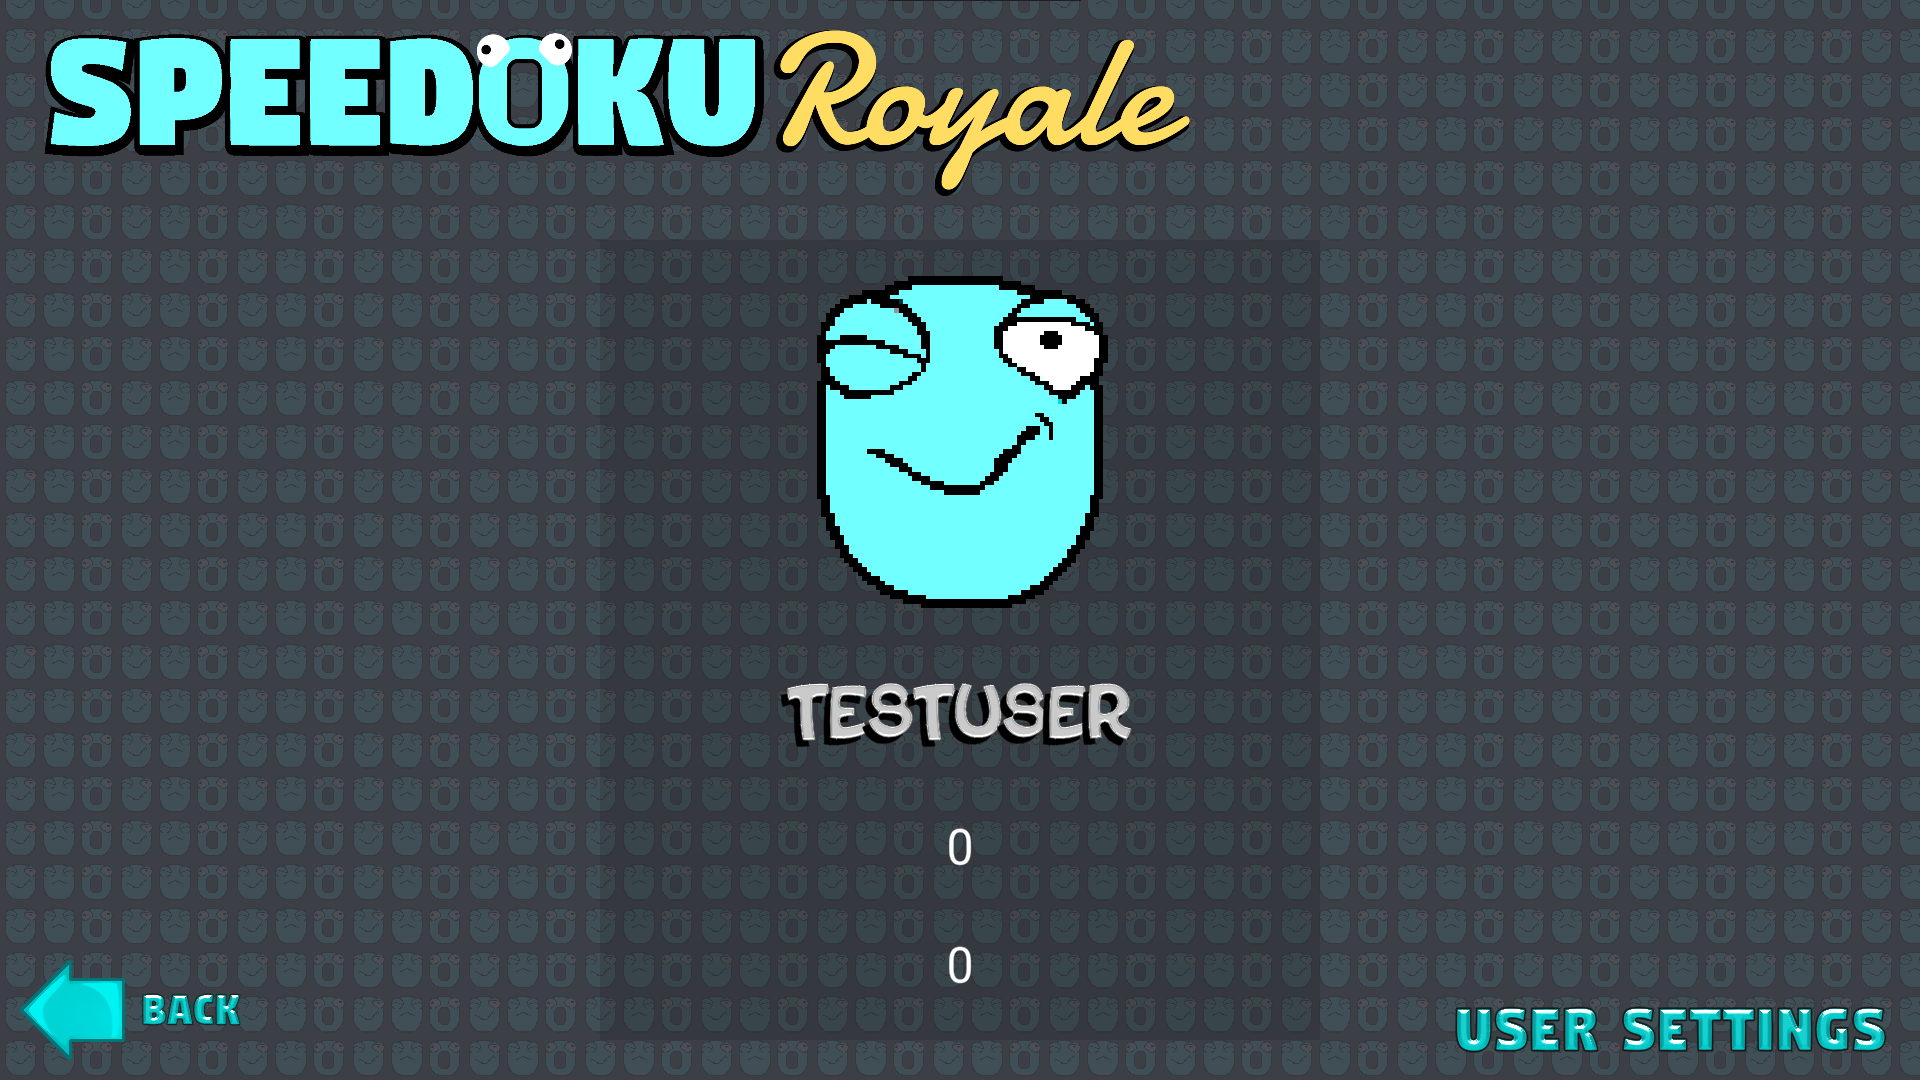
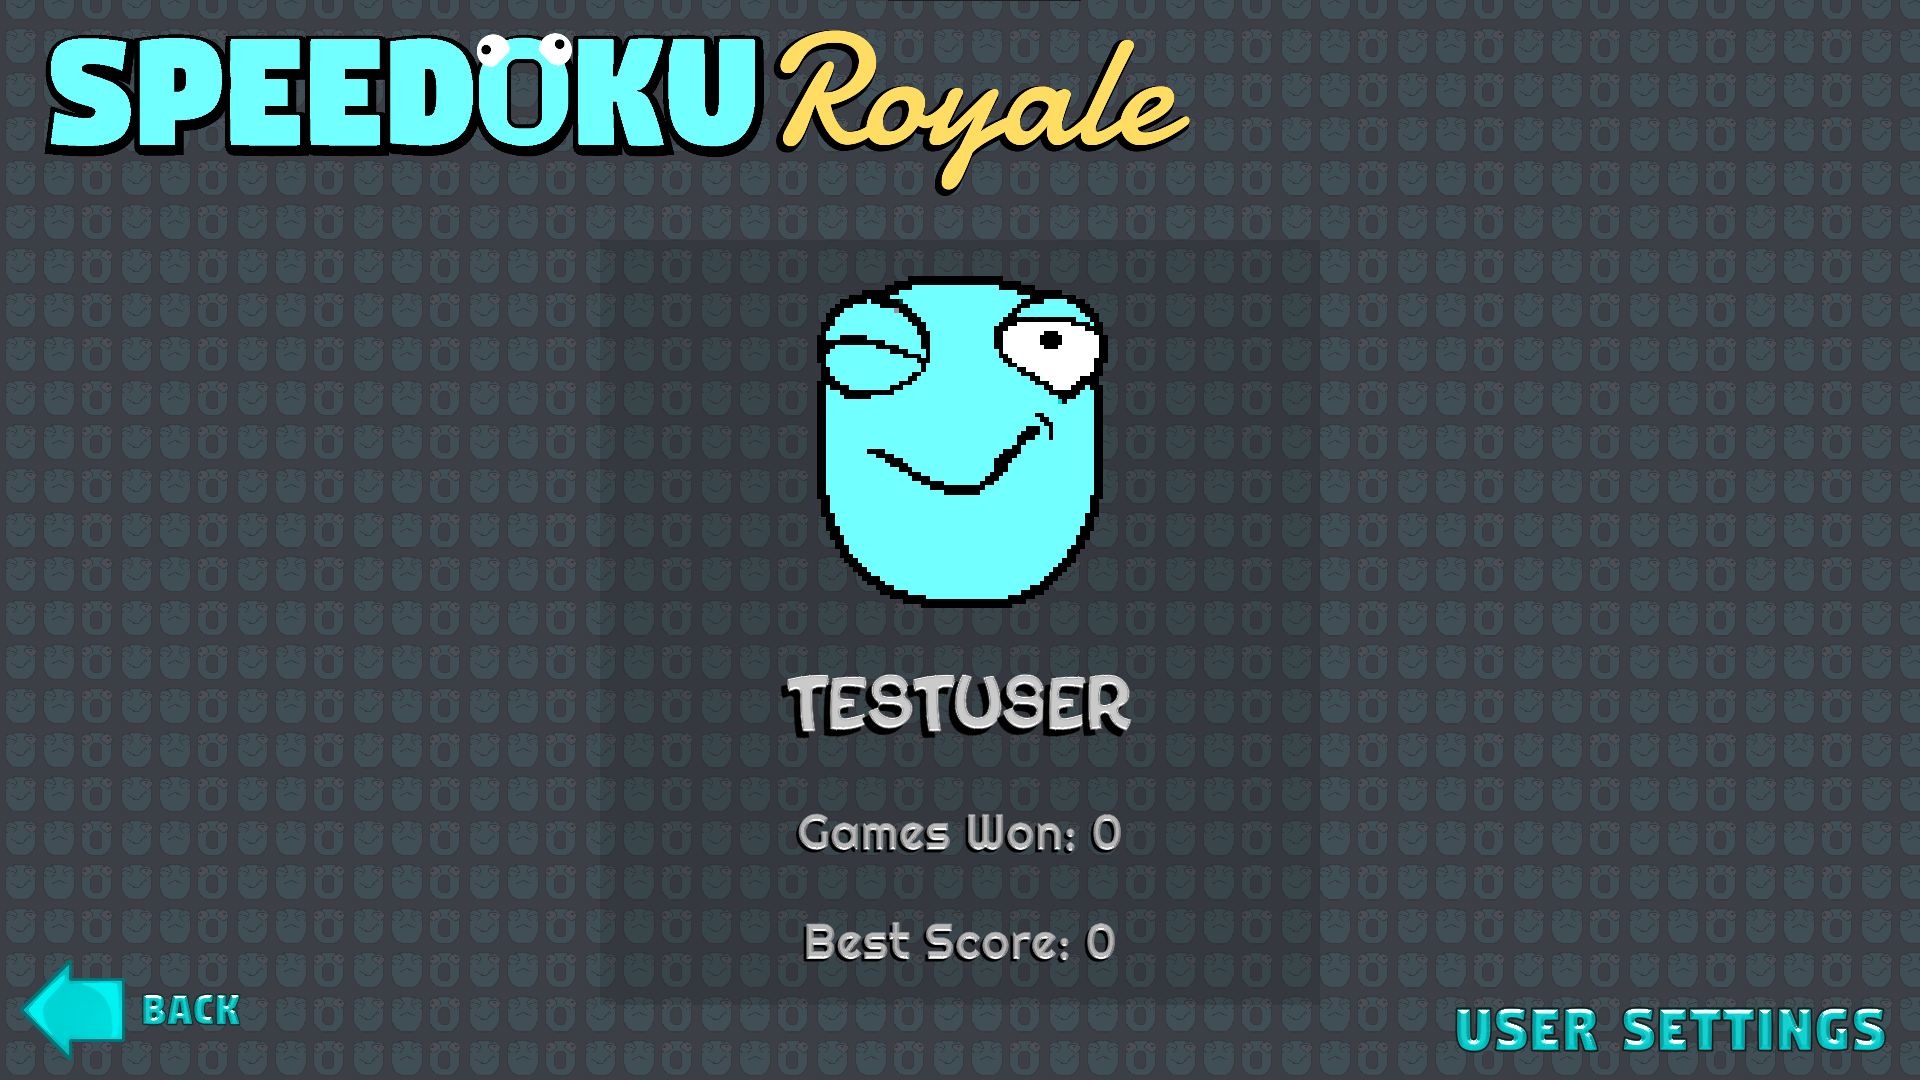
Update readme

Changed region(s): [[0.4062, 0.6111, 0.5938, 0.7028], [0.4062, 0.7333, 0.5938, 0.7944], [0.4062, 0.8556, 0.5938, 0.9167]]

diff --git a/README.md b/README.md
@@ -45,5 +45,4 @@ To play locally hosted multiplayer, you have to do the following steps:
 1. Make sure you are logged in on a user.
 2. [Click the "Statistics" button.](GuideImages/Statistics.png)
 3. [Click the "Profile" button.](GuideImages/Profile.png)   
-There you should see the user's name, victories and personal best score.
-<!-- [You should see the user's name,](GuideImages/UserData.png) -->
+[Now you should see the user's name, victories and personal best score.](GuideImages/UserData.png)
